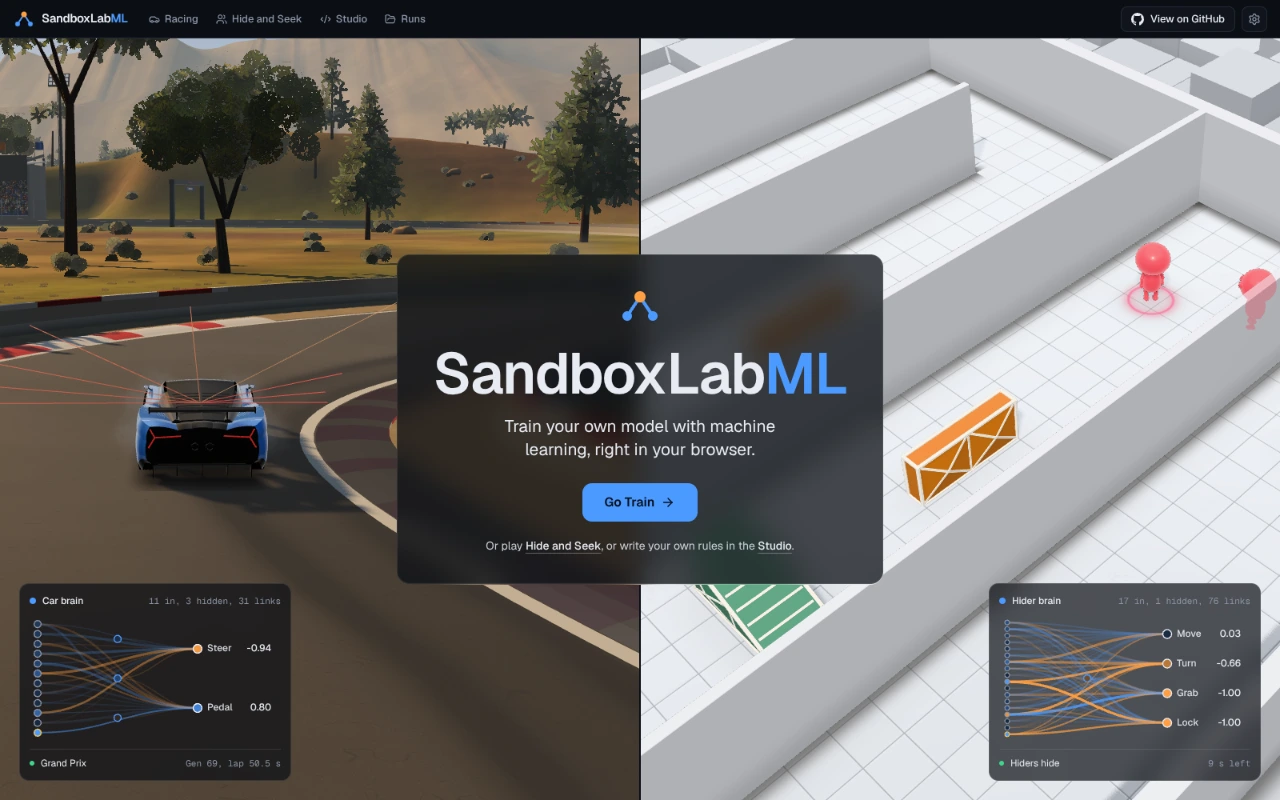
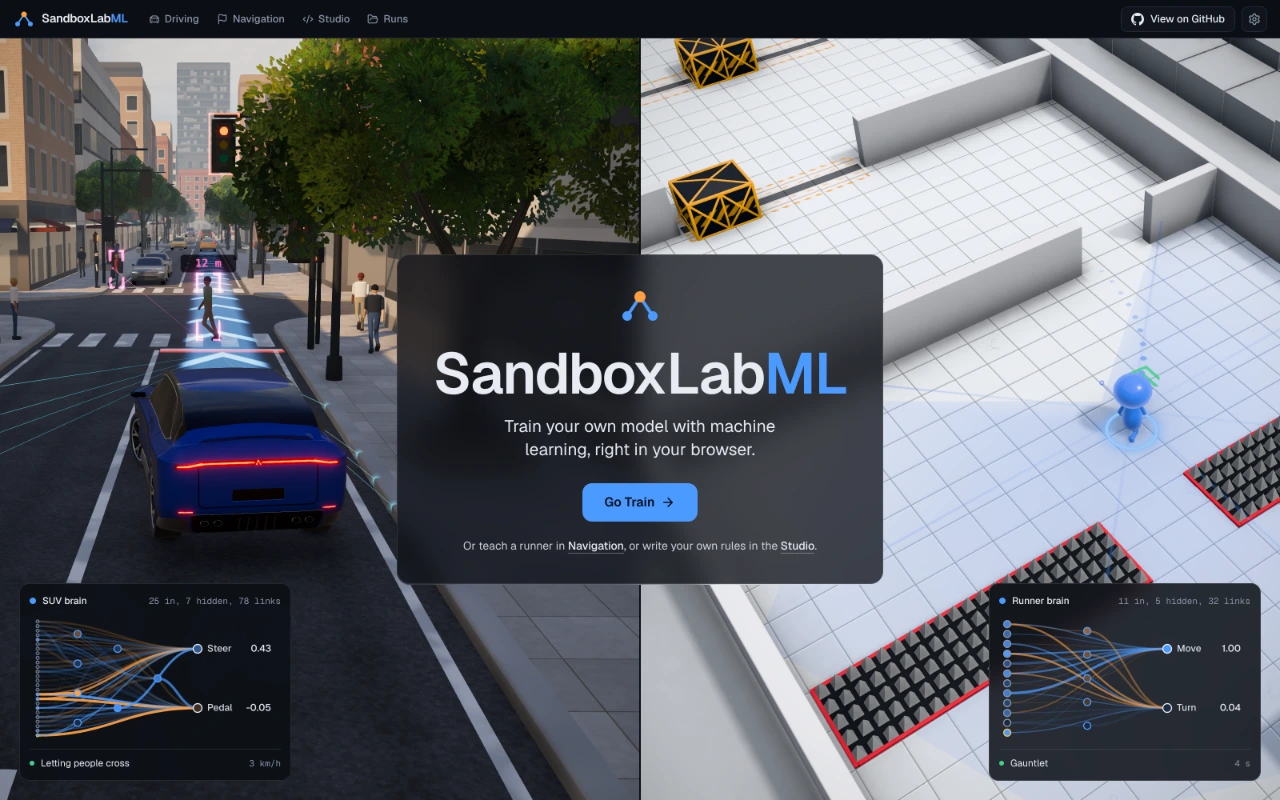
Add Coere, refresh SandboxLabML and point Backbond at Optagon Labs
SandboxLabML gets the new home screen photo and a description of the
less game like app. Rapier goes, since the app no longer uses it.
Coere comes in as the third project with its live home page photo,
and Preact and SQLite join the skills.

Claude-Session: https://claude.ai/code/session_017zh5xLgF4o9xYgyqBzj9X5

diff --git a/src/content/projects.ts b/src/content/projects.ts
@@ -16,21 +16,31 @@ export const projects: Project[] = [
     stack: ['Next.js', 'Vercel', 'Google Cloud Run', 'Cloud SQL', 'OAuth', 'Stripe', 'AWS', 'Amazon Bedrock'],
     description:
       'Computational design platform for R&D, developed at Optagon Labs. Built the core infrastructure, security and databases, plus billing, usage metering, organizations and project ingestion.',
-    links: [{ label: 'backbond.net', href: 'https://backbond.net' }],
+    links: [{ label: 'optagonlabs.com', href: 'https://optagonlabs.com' }],
     image: '/projects/backbond.webp',
   },
   {
     id: 'sandboxlab-ml',
     name: 'SandboxLabML',
     badges: [],
-    stack: ['Next.js', 'TypeScript', 'React Three Fiber', 'Rapier', 'Neuroevolution', 'Web Workers', 'CodeMirror', 'IndexedDB'],
+    stack: ['Next.js', 'TypeScript', 'React Three Fiber', 'Three.js', 'Neuroevolution', 'Web Workers', 'CodeMirror', 'IndexedDB'],
     description:
-      "A browser app for creating and training your own models. Pick racing or hide and seek in 3D, set the rewards, sensors and brain shape, then press Train to evolve a population of neural networks with NEAT inside real physics. Training runs on your own machine in Web Workers, and you can open any brain to watch its neurons fire as it decides. When it's done, download the trained model to run anywhere.",
+      'A live machine learning lab in your browser. Press Train and a hundred neural networks learn to drive an SUV through a city of traffic lights, people and other cars, or to run a course past crates, spikes and sliding walls. Training uses NEAT neuroevolution on your own machine in Web Workers, you can open any brain to watch its neurons fire, and a small script language lets you write the training loop yourself.',
     links: [
       { label: 'sandboxlabs.vercel.app', href: 'https://sandboxlabs.vercel.app' },
       { label: 'GitHub', href: 'https://github.com/edison16a/SandboxLabML' },
     ],
     image: '/projects/sandboxlab-ml.webp',
+  },
+  {
+    id: 'coere',
+    name: 'Coere',
+    badges: [],
+    stack: ['Next.js', 'TypeScript', 'Supabase', 'Extensions API', 'Preact', 'SQLite', 'ONNX Runtime Web', 'Model Context Protocol'],
+    description:
+      'Portable AI memory you own. A Chrome extension saves your chats from ChatGPT, Claude, Gemini and six more AIs, finds the right one while you type, and moves any chat to another AI. Search and memory run on your own machine with SQLite and ONNX Runtime in the browser, and the site, dashboard and accounts run on Next.js and Supabase.',
+    links: [{ label: 'coere.ai', href: 'https://www.coere.ai' }],
+    image: '/projects/coere.webp',
   },
   {
     id: 'standoff',

diff --git a/src/components/skills/skillIcons.ts b/src/components/skills/skillIcons.ts
@@ -28,6 +28,8 @@ import {
   siZod,
   siOpenstreetmap,
   siProsemirror,
+  siPreact,
+  siSqlite,
   siPwa,
   siOnnx,
   siPalantir,
@@ -79,8 +81,7 @@ import {
  *   The gilbarbara logos set (CC0) for the WebSocket logo, drawn white like other black marks.
  *   Poimandres' own mark, from github.com/pmndrs/branding (MIT), for React Three Fiber, which it
  *   makes. Its white blocks are kept and the black square behind them is dropped. Zustand, also
- *   made by Poimandres, shares it. Playwright's own logo comes from playwright.dev, and Rapier's
- *   from rapier.rs, with its dark teal ring lifted so it reads on black.
+ *   made by Poimandres, shares it. Playwright's own logo comes from playwright.dev.
  * letter: a single display letter, for WESTPA.
  * glyph: a line icon for concepts that have no logo at all, like SQL, REST, Web Audio, Web Speech
  *   and Canvas 2D.
@@ -193,7 +194,8 @@ const ICONS: Record<string, SkillIcon> = {
   Whisper: logo('openai'),
   Kokoro: glyph(MicGlyph, 'F472B6'),
   ProseMirror: brand(siProsemirror),
-  Rapier: logo('rapier.png'),
+  Preact: brand(siPreact),
+  SQLite: brand(siSqlite),
   Neuroevolution: glyph(NetworkGlyph, 'F59E0B'),
   CodeMirror: brand(siCodemirror),
   Zustand: logo('pmndrs'),

diff --git a/src/content/about.ts b/src/content/about.ts
@@ -59,6 +59,7 @@ export const skills: SkillGroup[] = [
       'ProseMirror',
       'PWA',
       'Web Workers',
+      'Preact',
       'Zustand',
       'Radix UI',
       'CodeMirror',
@@ -68,7 +69,7 @@ export const skills: SkillGroup[] = [
     category: 'Mobile & Native',
     items: ['SwiftUI', 'Vision', 'AVFoundation', 'Unity', 'Niantic Lightship'],
   },
-  { category: 'Databases', items: ['PostgreSQL', 'Supabase', 'Cloud SQL', 'Redis', 'IndexedDB', 'Dexie'] },
+  { category: 'Databases', items: ['PostgreSQL', 'Supabase', 'Cloud SQL', 'Redis', 'IndexedDB', 'Dexie', 'SQLite'] },
   {
     category: 'AI & Data',
     items: [
@@ -105,7 +106,6 @@ export const skills: SkillGroup[] = [
       'FFmpeg',
       'WebAssembly',
       'Sharp',
-      'Rapier',
     ],
   },
   { category: 'Maps', items: ['Leaflet', 'OpenStreetMap'] },
